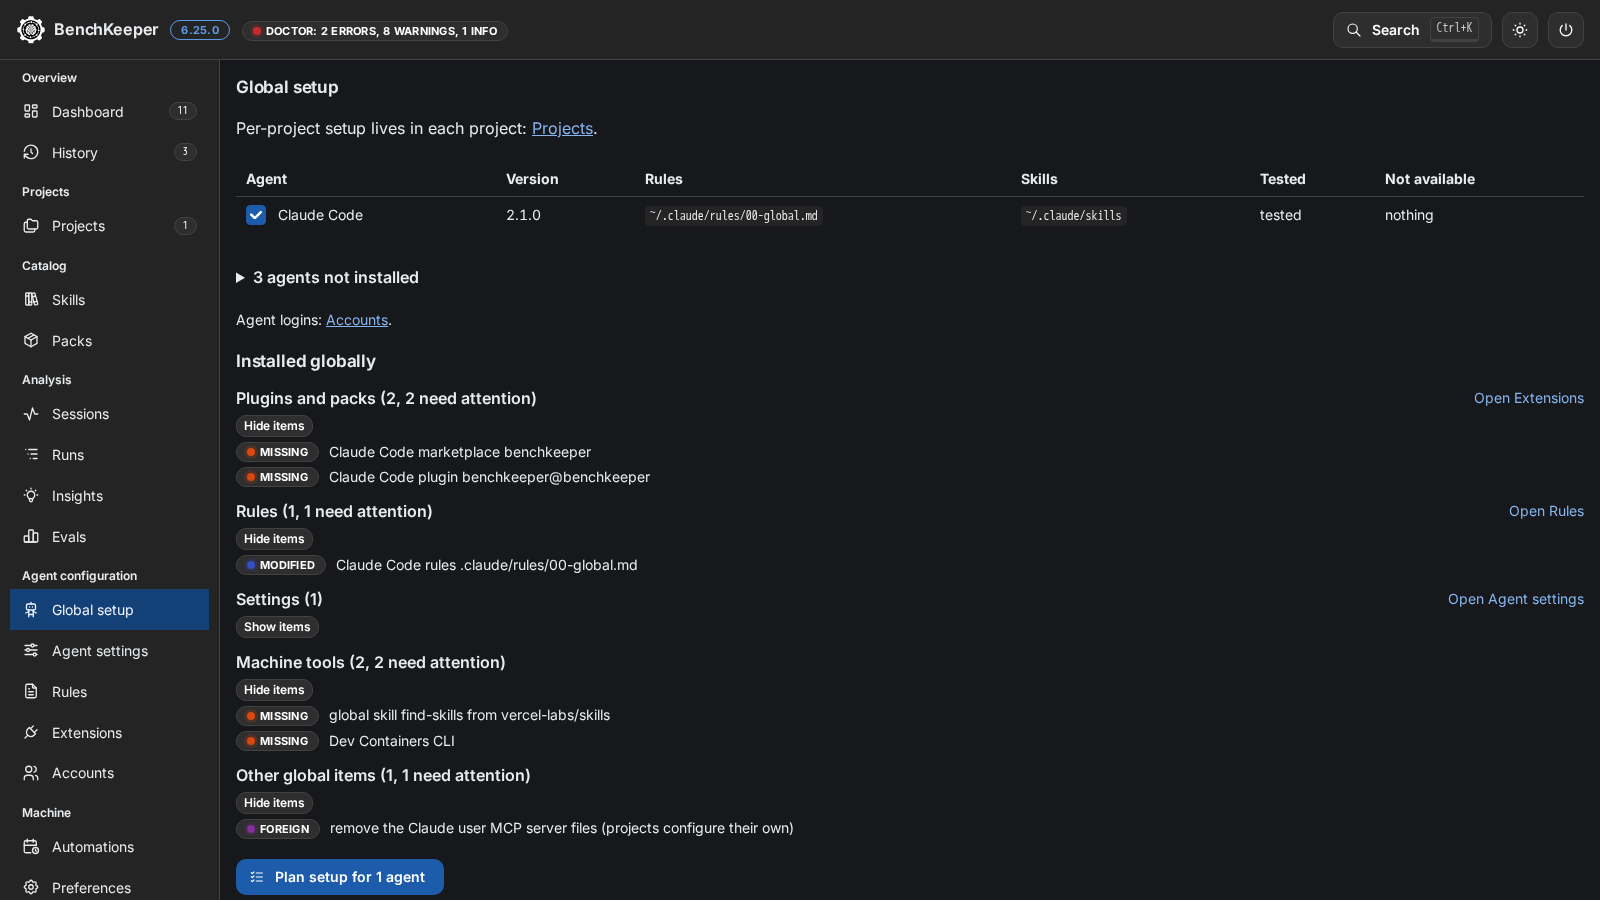
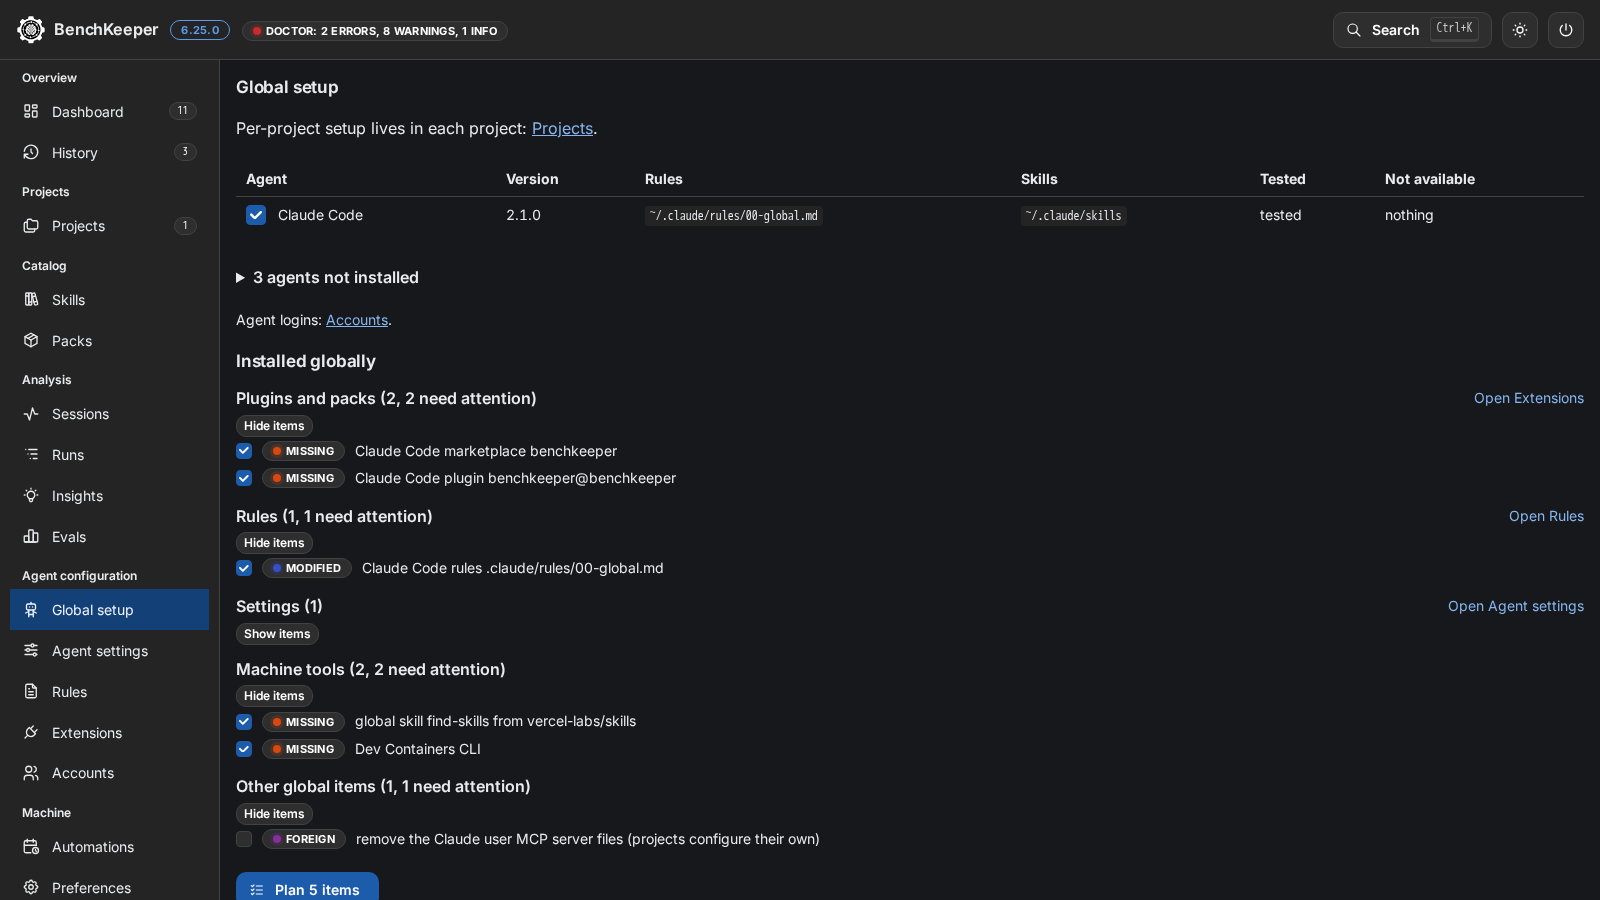
feat(app): tick the items of the global setup that go into the plan (#908)
* feat(app): tick the items of the global setup that go into the plan

Each item of Installed globally that needs attention has a box. The button reads Plan N items, and the plan starts with the ticked items; a removal starts unticked. A tick after the plan opened drops it, so the button asks for a new one.

* fix(app): keep the global setup ticks in step with the inventory, the plan and the chosen agents

A reload of the inventory after an apply drops the ticks of resolved items and ticks new items by default; the user's own ticks stay. A plan asked for before a tick changed is ignored when it arrives. The Plan button counts only the ticks of the chosen agents and the machine items, as the plan covers only those.

* test(app): share the Codex-installed overview route between the Global setup tests

Changed region(s): [[0.125, 0.4978, 0.5, 1.0], [0.9062, 0.6533, 1.0, 0.6844], [0.9375, 0.56, 1.0, 0.5911]]

diff --git a/app/ui/views.jsx b/app/ui/views.jsx
@@ -173,7 +173,10 @@ const GLOBAL_PARTS = [[['plugin', 'pack'], 'Plugins and packs', 'extensions', 'E
   [['ask', 'settings'], 'Settings', 'agent-settings', 'Agent settings'], [['tools'], 'Machine tools'], [['other'], 'Other global items']];
 
 // What the global setup installs, by part, with its state on disk; a part's items open on a button, open from the start when some need attention.
-function GlobalItems({ items }) {
+// An item that needs attention has a box: the ticked ones go into the plan. A removal ('foreign') starts unticked.
+const tickable = (i) => ATTENTION.includes(i.state) && i.state !== 'error';
+const itemKey = (i) => `${i.step}|${i.title}`;
+function GlobalItems({ items, ticked, onTick, locked }) {
   const parts = GLOBAL_PARTS.map(([steps, title, view, viewName]) => ({ title, view, viewName, rows: items.filter((i) => steps.includes(i.step.split(':')[0])) })).filter((p) => p.rows.length);
   if (!parts.length) return <Text size="sm">Nothing is installed globally yet: plan the setup below.</Text>;
   return parts.map((p) => {
@@ -186,12 +189,30 @@ function GlobalItems({ items }) {
         </Group>
         <Folded title={p.title} label={['Show items', 'Hide items']} name={`items of ${p.title}`} initial={attention > 0}>
           <List size="sm" listStyleType="none" spacing={4}>
-            {p.rows.map((i) => <List.Item key={`${i.step}|${i.title}`}><Group gap="xs" wrap="nowrap"><StateBadge state={i.state} /><Text size="sm" style={{ overflowWrap: 'anywhere' }}>{i.title}</Text></Group></List.Item>)}
+            {p.rows.map((i) => (
+              <List.Item key={itemKey(i)}>
+                <Group gap="xs" wrap="nowrap">
+                  {tickable(i) && <Checkbox size="xs" aria-label={i.title} checked={ticked.has(itemKey(i))} disabled={locked} onChange={() => onTick(i)} />}
+                  <StateBadge state={i.state} />
+                  <Text size="sm" style={{ overflowWrap: 'anywhere' }}>{i.title}</Text>
+                </Group>
+              </List.Item>
+            ))}
           </List>
         </Folded>
       </Stack>
     );
   });
+}
+
+// The plan's own start selection with the ticks applied: a change of a ticked item is on, one of an unticked item is off,
+// the rest (what the inventory does not list) keeps its default; the changes of one unit go together.
+function followTicks(plan, items, ticked) {
+  const known = new Set(items.filter(tickable).map(itemKey));
+  const key = (c) => `${c.step}|${c.title}`;
+  const on = plan.changes.filter((c) => !c.error && (known.has(key(c)) ? ticked.has(key(c)) : c.selected)).map((c) => c.id);
+  const units = new Set(plan.changes.filter((c) => c.unit && on.includes(c.id)).map((c) => c.unit));
+  return plan.changes.filter((c) => !c.error && (on.includes(c.id) || units.has(c.unit))).map((c) => c.id);
 }
 
 // One row per agent. An installed agent shows a short chip per missing feature with the sentence as its tooltip;
@@ -229,8 +250,23 @@ export function Agents({ overview, params, refresh }) {
   const [select, setSelect] = useState(null);
   const [plan, setPlan] = useState(null);
   const [error, setError] = useState(null);
+  // The user's own ticks by item; an item without one keeps its default, so a reload of the inventory drops the resolved items and ticks the new ones.
+  const [choices, setChoices] = useState({});
+  const [running, setRunning] = useState(false);
+  const request = useRef(0);
   const installed = overview.data?.agents.filter((a) => a.installed).map((a) => a.id) ?? [];
-  const load = async (ids) => { setError(null); setPlan(null); try { setPlan(await api(`/api/global-plan?agents=${ids.join(',')}`)); } catch (e) { setError(e.message); } };
+  const rows = inv.data?.filter(tickable) ?? [];
+  const ticked = new Set(rows.filter((i) => choices[itemKey(i)] ?? (i.state !== 'foreign')).map(itemKey));
+  // Ticking changes what the plan holds: an open plan is dropped, a plan still on its way is ignored, the button asks for a new one.
+  const tick = (i) => { request.current += 1; setPlan(null); setChoices({ ...choices, [itemKey(i)]: !ticked.has(itemKey(i)) }); };
+  const load = async (ids, follow) => {
+    const n = ++request.current;
+    setError(null); setPlan(null);
+    try {
+      const p = await api(`/api/global-plan?agents=${ids.join(',')}`);
+      if (n === request.current) setPlan(follow ? { ...p, initial: followTicks(p, inv.data, ticked) } : p);
+    } catch (e) { if (n === request.current) setError(e.message); }
+  };
   // #/agents?agent=claude or ?plan=1 (Dashboard, palette) opens that plan.
   const auto = params.get('agent') ?? (params.get('plan') ? '*' : null);
   useEffect(() => {
@@ -242,6 +278,9 @@ export function Agents({ overview, params, refresh }) {
   return (
     <Loading state={overview} label="agents">{(o) => {
       const chosen = select ?? installed;
+      // The plan covers the chosen agents: the items of an installed agent that is not chosen do not count; machine items always do.
+      const scoped = rows.filter((i) => !installed.includes(i.agent) || chosen.includes(i.agent));
+      const count = scoped.filter((i) => ticked.has(itemKey(i))).length;
       return (
         <Stack gap="lg">
           <Text>Per-project setup lives in each project: <Anchor href={href('projects')} underline="always">Projects</Anchor>.</Text>
@@ -253,10 +292,10 @@ export function Agents({ overview, params, refresh }) {
             </details>
           )}
           <Text size="sm">Agent logins: <Anchor href={href('accounts')} underline="always">Accounts</Anchor>.</Text>
-          <Section title="Installed globally"><Loading state={inv} label="global items">{(items) => <GlobalItems items={items} />}</Loading></Section>
-          <Group><Button leftSection={icon(IconListCheck)} onClick={() => load(chosen)} disabled={!chosen.length}>Plan setup for {chosen.length} agent{chosen.length === 1 ? '' : 's'}</Button></Group>
+          <Section title="Installed globally"><Loading state={inv} label="global items">{(items) => <GlobalItems items={items} ticked={ticked} onTick={tick} locked={running} />}</Loading></Section>
+          <Group><Button leftSection={icon(IconListCheck)} onClick={() => load(chosen, scoped.length > 0)} disabled={!chosen.length || (scoped.length > 0 && !count)}>{scoped.length ? `Plan ${plural(count, 'item')}` : `Plan setup for ${plural(chosen.length, 'agent')}`}</Button></Group>
           {error && <Note color="red" title="Plan failed">{error}</Note>}
-          {plan && <Section title="Changes"><Plan key={plan.planId} plan={plan} scope="global" onDone={() => { refresh(); inv.reload(); }} /></Section>}
+          {plan && <Section title="Changes"><Plan key={plan.planId} plan={plan} initial={plan.initial} scope="global" onRunning={setRunning} onDone={() => { refresh(); inv.reload(); }} /></Section>}
           <Text size="sm">Removing the setup: undo its runs in History. The app does not install or remove agents.</Text>
           <Cli>{`benchkeeper plan --agents ${chosen.join(',')}\nbenchkeeper apply --agents ${chosen.join(',')}`}</Cli>
         </Stack>

diff --git a/web/src/components/AppPage.tsx b/web/src/components/AppPage.tsx
@@ -119,10 +119,10 @@ export const VIEWS: { id: string; view: string; title: string; shot: string; alt
   },
   {
     id: 'global', view: 'agents', title: 'Global setup', shot: 'global',
-    alt: 'The Global setup view: the installed agents with version, rules file, skills folder, tested and a chip for each feature that is not available, the agents that are not installed folded into one line, then the items installed globally, one group each with its count and how many need attention.',
+    alt: 'The Global setup view: the installed agents with version, rules file, skills folder, tested and a chip for each feature that is not available, the agents that are not installed folded into one line, then the items installed globally, one group each with its count and how many need attention, a box on each item that needs attention, and the Plan button counting the ticked items.',
     text: [
       'The machine-wide setup per agent: each installed agent with its version, rules file and skills folder, whether BenchKeeper is tested with it and what it does not support, the agents that are not installed folded below, then the items installed globally with their state; a group with items that need attention starts open.',
-      'Plan setup shows the changes for the agents you check, each with a diff, before anything is written. Removing the setup is an undo of its runs in History; the app does not install or remove agents.',
+      'Each item that needs attention has a box (a removal starts unticked); Plan N items shows the changes for the ticked ones, each with a diff, before anything is written. Removing the setup is an undo of its runs in History; the app does not install or remove agents.',
     ],
     cli: [`${V} plan --agents claude,codex`, `${V} apply --agents claude,codex`],
   },

diff --git a/app/ui/parts.jsx b/app/ui/parts.jsx
@@ -307,9 +307,10 @@ export const defaultSelect = (plan) => plan.changes.filter((c) => c.selected && 
 
 // A plan from the server: its changes (removals off by default), then apply from a footer that stays in view. After the
 // apply, the run with its undo replaces the plan. onRunning hears when an apply starts and ends, onCancel when the user
-// cancels (true) or reviews the changes again (false). why and scope go to the change list.
-export function Plan({ plan, onDone, onRunning, onCancel, why, scope }) {
-  const [select, setSelect] = useState(() => defaultSelect(plan));
+// cancels (true) or reviews the changes again (false). why and scope go to the change list. initial: the ids ticked at
+// the start, instead of the plan's own default.
+export function Plan({ plan, onDone, onRunning, onCancel, why, scope, initial }) {
+  const [select, setSelect] = useState(() => initial ?? defaultSelect(plan));
   const [cancelled, setCancelled] = useState(false);
   const [job, setJob] = useState(null);
   const [error, setError] = useState(null);

diff --git a/app/README.md b/app/README.md
@@ -177,7 +177,7 @@ The sidebar groups the views: Overview (Dashboard, History), Projects (Projects)
 | Projects | registered projects as cards (the default) or a table, the choice kept in the browser. A card: name and folder (cut at its start), a health dot (in sync, outdated, modified, folder not found, not set up) with the count of doctor findings, the setup in one line (agents, default tier, workflow owner) with its packs, sessions per day of the last 30 days as a bar graph with a text alternative (all agents and the repository's worktrees; the total with its change against the previous 30 days, the cost with the count of sessions without one, the last session and its tier), and Details, Open board (the Sessions view), Set up or Apply (the project's plan), Update and Remove setup. The name or Details opens the project's page: name, health dot and folder, Change setup, a More menu with Open folder, Edit name and notes, Relocate and the two removals, and the tabs Overview (the card's facts, its items by state, the project doctor), Installs (one switch each for packs (in use or suggested as rows, the others as a two-column grid with scope and state under Details), the workflow owner, skills and agent files, with a scope hint: only this project or also global, a scope an agent fixes with its reason, the state on disk, and summary, plain words, impact, default and current; a read-only block of what the global setup makes active here (global packs the project does not select, the BenchKeeper plugin, global skills) with a link to Global setup; the plan below, which alone changes the project, with its diff and undo; Set up (when the project has no setup yet); Skill states: each skill of the project with its state, commit installed and, after Check for updates, the source's newest, a switch to deactivate and activate, Update, Reset, Remove, filter by state, each action opening its plan with the diff, then apply and undo, and untracked folders with Adopt for library skills, left alone otherwise), Sessions (the board with only its sessions), Rules and settings (its instruction files and its project and local settings files) and History (its runs). Above them the totals of the projects shown (projects, in sync, need attention, sessions in the last 7 days) and one health bar. The table: one row each: name and tree state, then path (cut at its start) and branch; one setup status (current, behind or not set up, and local or shared); skills each session of a chosen agent loads (the project's own with its global and plugin skills); pending changes; on the project's page its plan, pack switches (the packs in use or suggested by its files first, then the others, each with when to pick it; with Copy packs from project; the preview lists the skills a pack takes along or removes), skill switches and doctor findings; add (another worktree of a registered repository is offered, not added; a folder inside a project is flagged), scan a parent folder, New from preset (starts a new folder from a saved preset, shows the plan, registers the folder and then recommends skills to turn off and packs to add, none chosen), search, filter chips (needs attention, no setup, folder not found, each pack and agent in use; every chip on must hold) and a sort (name, health, last change), display name and notes, Relocate for a folder that moved (a missing folder shows Folder not found with Relocate and Remove), Remove from list and Remove BenchKeeper setup (every file listed first; a local setup is a run with undo in History, a shared one a commit on a local branch), the same four plus Update and Set up for several selected projects at once (the bar shows only with a selection) with one confirmation naming the count, Update all with progress per project and, per committed branch, the command that pushes it. A project without a state file is set up step by step (agents with where the setup lives: on this machine, the default, or in the repository as a local branch with one commit, which you push; environment with the dev container as default, packs and skills with suggestions from its files, tier, review), one project after the other; Prefill all with an agent, on the first project of a batch, runs one suggestion session per project after one consent, one at a time with a state per project (waiting, running, ready, failed, cancelled); each project's steps then start from its suggestion, still reviewed and applied one by one (a reload loses suggestions not yet used). Change setup reopens these steps from the state file; Open folder shows the project in the file manager. Suggest with an agent asks first, then runs one read-only session (Claude Code `-p --restricted --strict-mcp-config` with Read, Grep and Glob; Codex `exec` with a permission profile that reads only the project, the system's minimal paths and Codex itself, writes nothing, and runs without web search and MCP servers) in the project on your subscription; only library packs, skills and environments from its answer are taken. The steps only the user can start (the setup skill session, a pack's own setup) show in the review step, the result step and the project doctor as a Start in a terminal block: agent, project folder and the full `benchkeeper sessions record --project <dir> -- <agent> '<prompt>'` line with Copy. The app does not run the command: paste it in your own terminal; the recorded run shows in History with its exit code and changed files, and Check again reads the project doctor again, whose warning is gone once the files the step writes exist |
 | Skills | the Catalog's library skills and your own (marked "yours") with filters (`skills list --library`), skill detail with eval results (`skills show`), pack builder (`packs save`, warns about overlapping descriptions). New skill, and Edit and Remove on one of yours, open its `SKILL.md` text and show the plan with its diff (`skills new`, `skills edit`, `skills delete`). A skill's state in a project is on the project's page |
 | Packs | the Catalog's library packs and own packs with the projects that use them (`packs list`, `packs show`), export, import (asks before it replaces an own pack, the old file goes to `backup/packs/`) and removal (off while a project uses the pack). A pack is defined once and switched on per project, on the project's Installs tab (`packs enable --project`) |
-| Global setup | only global things: detected agents; what is installed globally by part (plugins and packs, skills, rules, settings, machine tools, other), each part with its count, the items that need attention and its state per item behind Show items, and a link to the view that edits it (Extensions, Rules, Agent settings); a link to Accounts; the line "Per-project setup lives in each project" with a link to Projects (per-project controls are in a project's Installs tab); and the global plan for the chosen agents. A skills CLI install in a plan (here, in a project's plan and in setup review) runs first, on a click, in a scratch folder with its own `HOME` and `CODEX_HOME`, `CLAUDE_CONFIG_DIR` and `XDG_*` unset, so the plan shows the files it would write (mapped back to the folders those variables point to); links are copied as what they point to, npm uses a scratch cache and your `.npmrc` without credentials, git an empty config. It runs inside an OS sandbox (`srt`; bubblewrap on Linux and WSL2 and `sandbox-exec` on macOS confine writes only where `srt` cannot run) that stops a write outside the scratch folder and, with `srt`, limits the network to the registry, GitHub and your registry host. Where none starts (Windows has none) the preview is off and says why; "Rehearse anyway without a sandbox" runs it with the scratch `HOME` only. `doctor` names what to install. Three run at a time; a result is kept 10 minutes or until the app changes files, and an apply stops a rehearsal still running. Apply shows each change as it runs, with the command output, then the run report in place of the plan. Cancel skips the changes not started yet |
+| Global setup | only global things: detected agents; what is installed globally by part (plugins and packs, skills, rules, settings, machine tools, other), each part with its count, the items that need attention and its state per item behind Show items, and a link to the view that edits it (Extensions, Rules, Agent settings); a box on each item that needs attention (a removal starts unticked), and the button "Plan N items" starts the plan with the ticked ones, a tick after that drops the open plan; a link to Accounts; the line "Per-project setup lives in each project" with a link to Projects (per-project controls are in a project's Installs tab); and the global plan for the chosen agents. A skills CLI install in a plan (here, in a project's plan and in setup review) runs first, on a click, in a scratch folder with its own `HOME` and `CODEX_HOME`, `CLAUDE_CONFIG_DIR` and `XDG_*` unset, so the plan shows the files it would write (mapped back to the folders those variables point to); links are copied as what they point to, npm uses a scratch cache and your `.npmrc` without credentials, git an empty config. It runs inside an OS sandbox (`srt`; bubblewrap on Linux and WSL2 and `sandbox-exec` on macOS confine writes only where `srt` cannot run) that stops a write outside the scratch folder and, with `srt`, limits the network to the registry, GitHub and your registry host. Where none starts (Windows has none) the preview is off and says why; "Rehearse anyway without a sandbox" runs it with the scratch `HOME` only. `doctor` names what to install. Three run at a time; a result is kept 10 minutes or until the app changes files, and an apply stops a rehearsal still running. Apply shows each change as it runs, with the command output, then the run report in place of the plan. Cancel skips the changes not started yet |
 | Sessions | the sessions board (see `sessions board`), scanned when the view opens, with progress and Rescan; each scan also rewrites `board.html`, which the status band's board button opens. Ponytail's ledger, when present, adds its figures and ledger-only rows (see `docs/setup.md`). The per-day chart shows all series of a day on hover, tap or with the arrow keys; a click on a project in the rail filters the whole page. In the app the filters stand in a column left of the figures, the project choice first as one chip that opens the list (registered repositories first, one entry per repository with its worktrees folded in, with a search); at phone width one Filters button opens the column. Four figures lead, the others fold under More figures. When Ponytail's own board page (`board.html` next to its ledgers) exists, Open Ponytail's board opens that file in the browser; no other path is opened |
 | Runs | read when the view opens and on Refresh, no timer: the orchestrated runs of the sessions scan in the registered projects and their worktrees, one row per run and per task with worktree, branch, sessions, cost and tokens; each project's last setup change from the ledger; and, when Orca is installed, its runs with task counts per state (one `run-list` call and one `task-list` call per run, at most 20 runs). It shows ids, states and counts only, never a prompt, spec, title or worker output |
 | Insights | the findings of `insights`: a line with their count by level and a "Do first" link to the most severe, what was checked, then the findings grouped by level (Errors, Warnings, Info; Info folded) and inside a level by area (Setup, Agent settings, Updates, Skills, Sessions), most severe first. An error is a card with its evidence and fix, where the finding has them, and the Dismiss and Snooze 7 days buttons; a warning or info finding is one line with its fix button, where it has one, and a More menu that holds Dismiss and Snooze 7 days, and its title opens the evidence and the fix hint. A doctor finding the setup can fix has the Dashboard's action (Plan fix, Review removal, Open settings or Plan project), which opens its plan with the diff and undo or the view that fixes it; a skill proposal's Plan opens the plan of that project for those skills, with its diff, apply and undo; the others show their fix text. Dismiss hides a finding until its evidence changes (the failed sessions of a project, the unused skills, a doctor finding's details; not the counts), Snooze 7 days until that date or a change, and "Dismissed and snoozed (n)" lists them with Show again. The choice is kept per finding in `insights-triage.json` in the `benchkeeper` config folder (readable only by you): finding ids with a digest of the evidence, and dates; no folder name, session id or skill name. The CLI does not read it. Above the findings, Adviser narrative: a summary of the findings shown with a suggested order, from one session of an installed agent (Claude Code or Codex; no tools, an empty folder). It starts only on a click, after a consent text shown once (kept in `insights-narrative.json` in the `benchkeeper` config folder); the exact input, with its size in characters, is on the page beside the button, and a run is refused when the findings changed since it was shown. The text is marked as model text, shows its cost as the agent recorded it (Claude Code API-equivalent USD, Codex tokens), is read-only (it cannot apply, dismiss or snooze), and is kept in `insights-narrative.json` in the `benchkeeper` cache folder (readable only by you) for that findings set; a changed set (a dismissal included) drops it. It does not run in CI |
